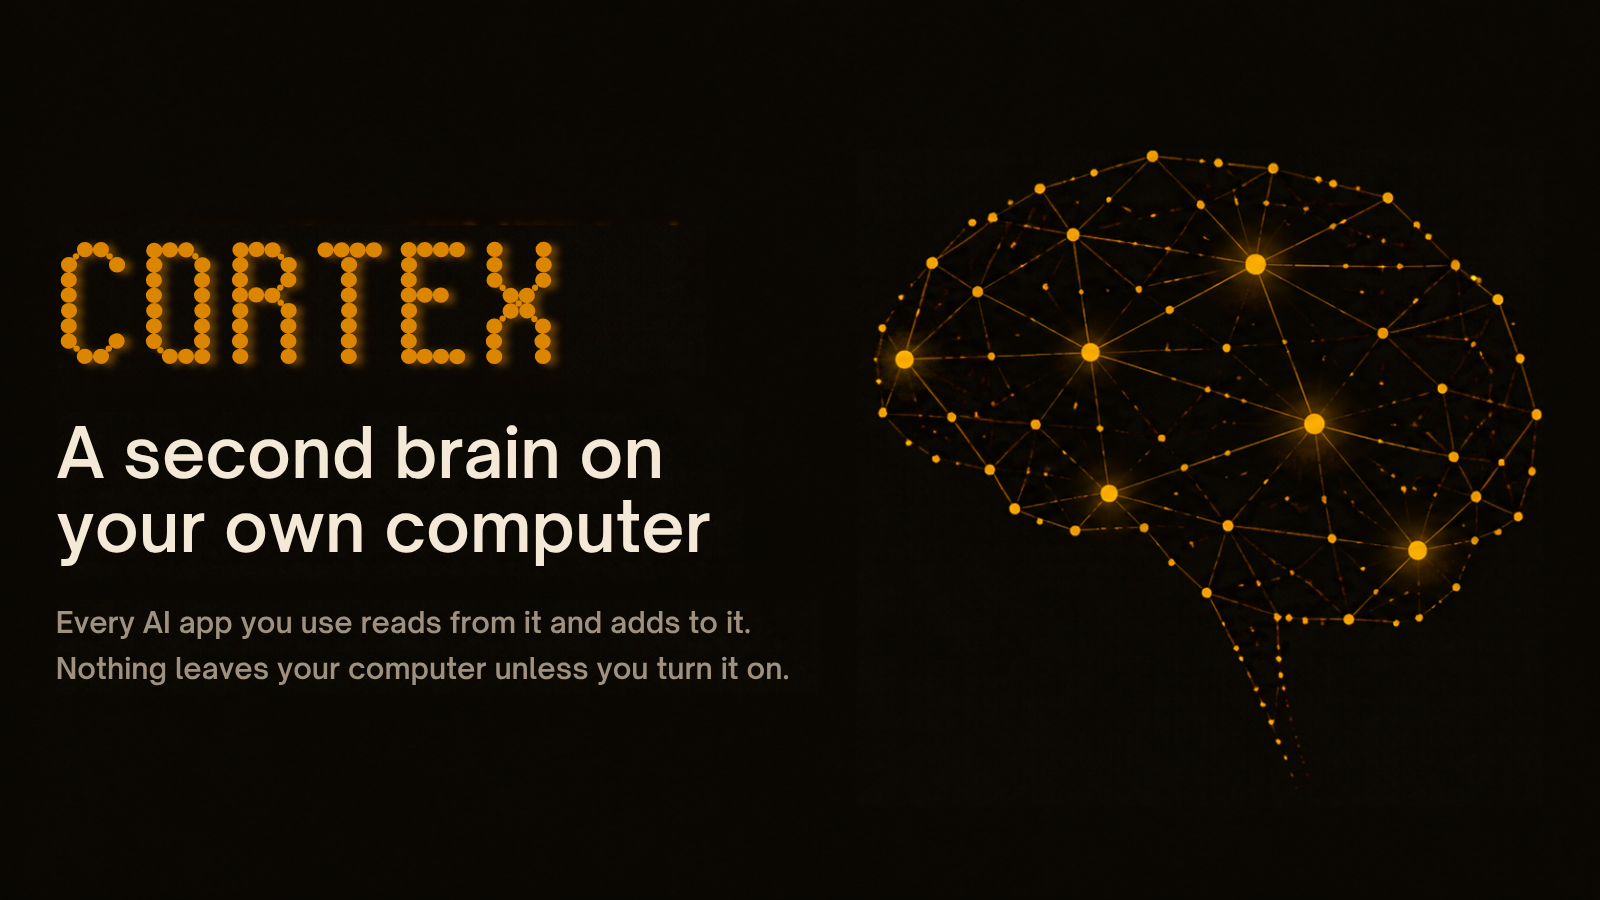
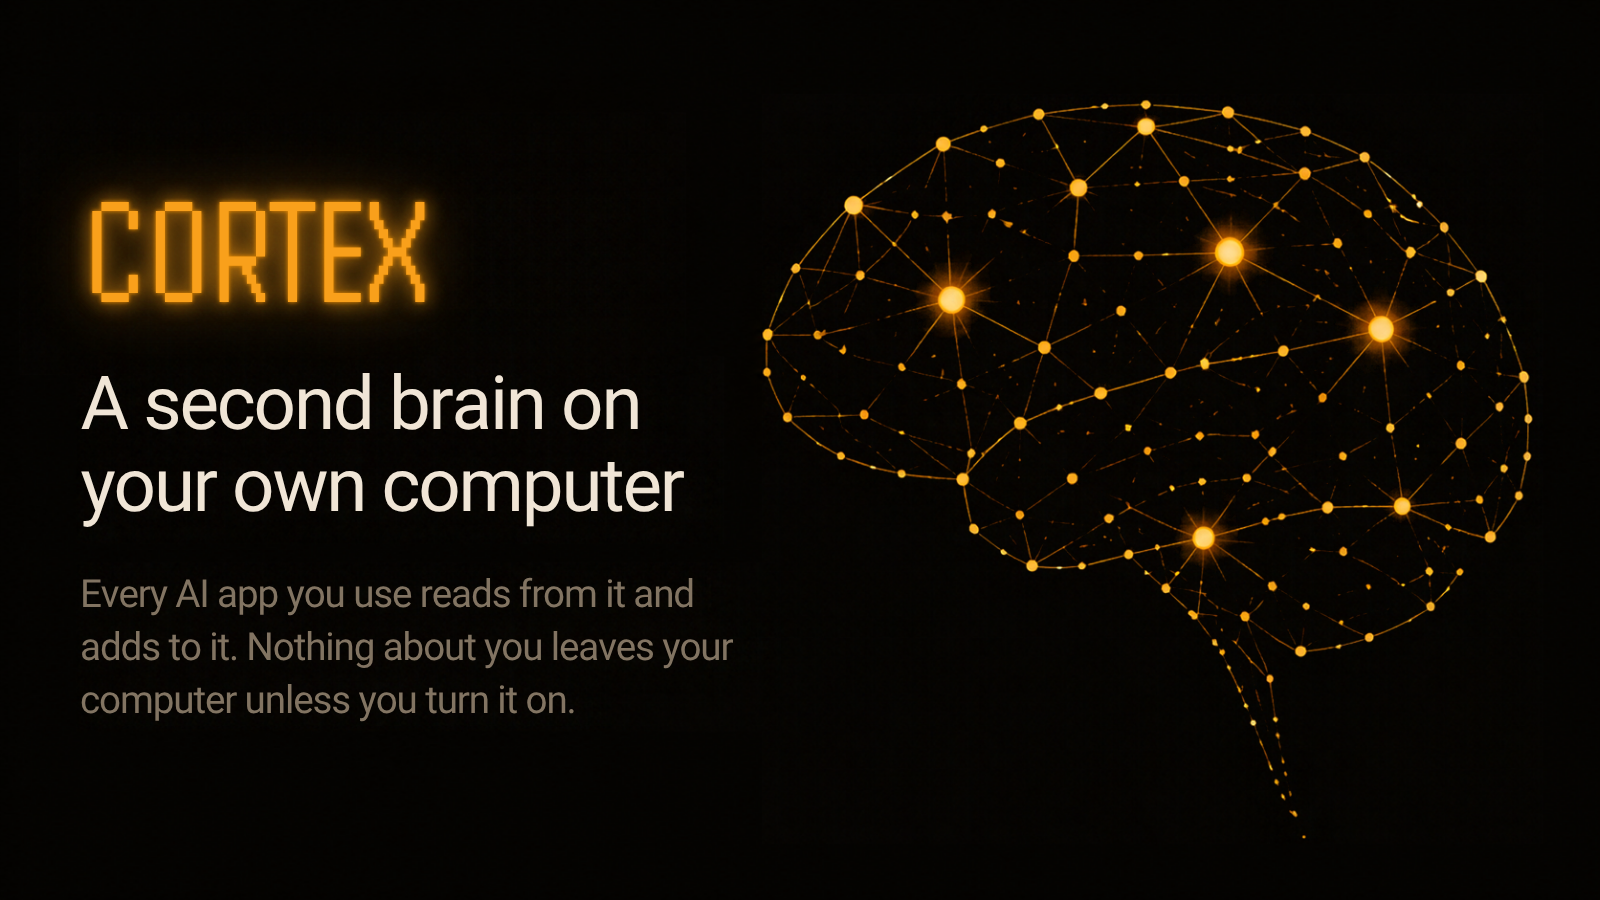
README: a new hero that says nothing about you leaves your computer unless you turn it on

Changed region(s): [[0.0312, 0.1867, 0.5, 0.8089], [0.4688, 0.0933, 0.9688, 0.84], [0.5625, 0.1244, 0.6562, 0.1867]]

diff --git a/README.md b/README.md
@@ -1,6 +1,6 @@
 # Cortex
 
-![Cortex: a second brain on your own computer. Every AI app you use reads from it and adds to it. Nothing leaves your computer unless you turn it on.](docs/images/hero.png)
+![Cortex: a second brain on your own computer. Every AI app you use reads from it and adds to it. Nothing about you leaves your computer unless you turn it on.](docs/images/hero.png)
 
 *Every screenshot in this README shows the bundled sample vault of Sam, a made-up student, plus made-up demo data. None of it is a real person's.*
 
